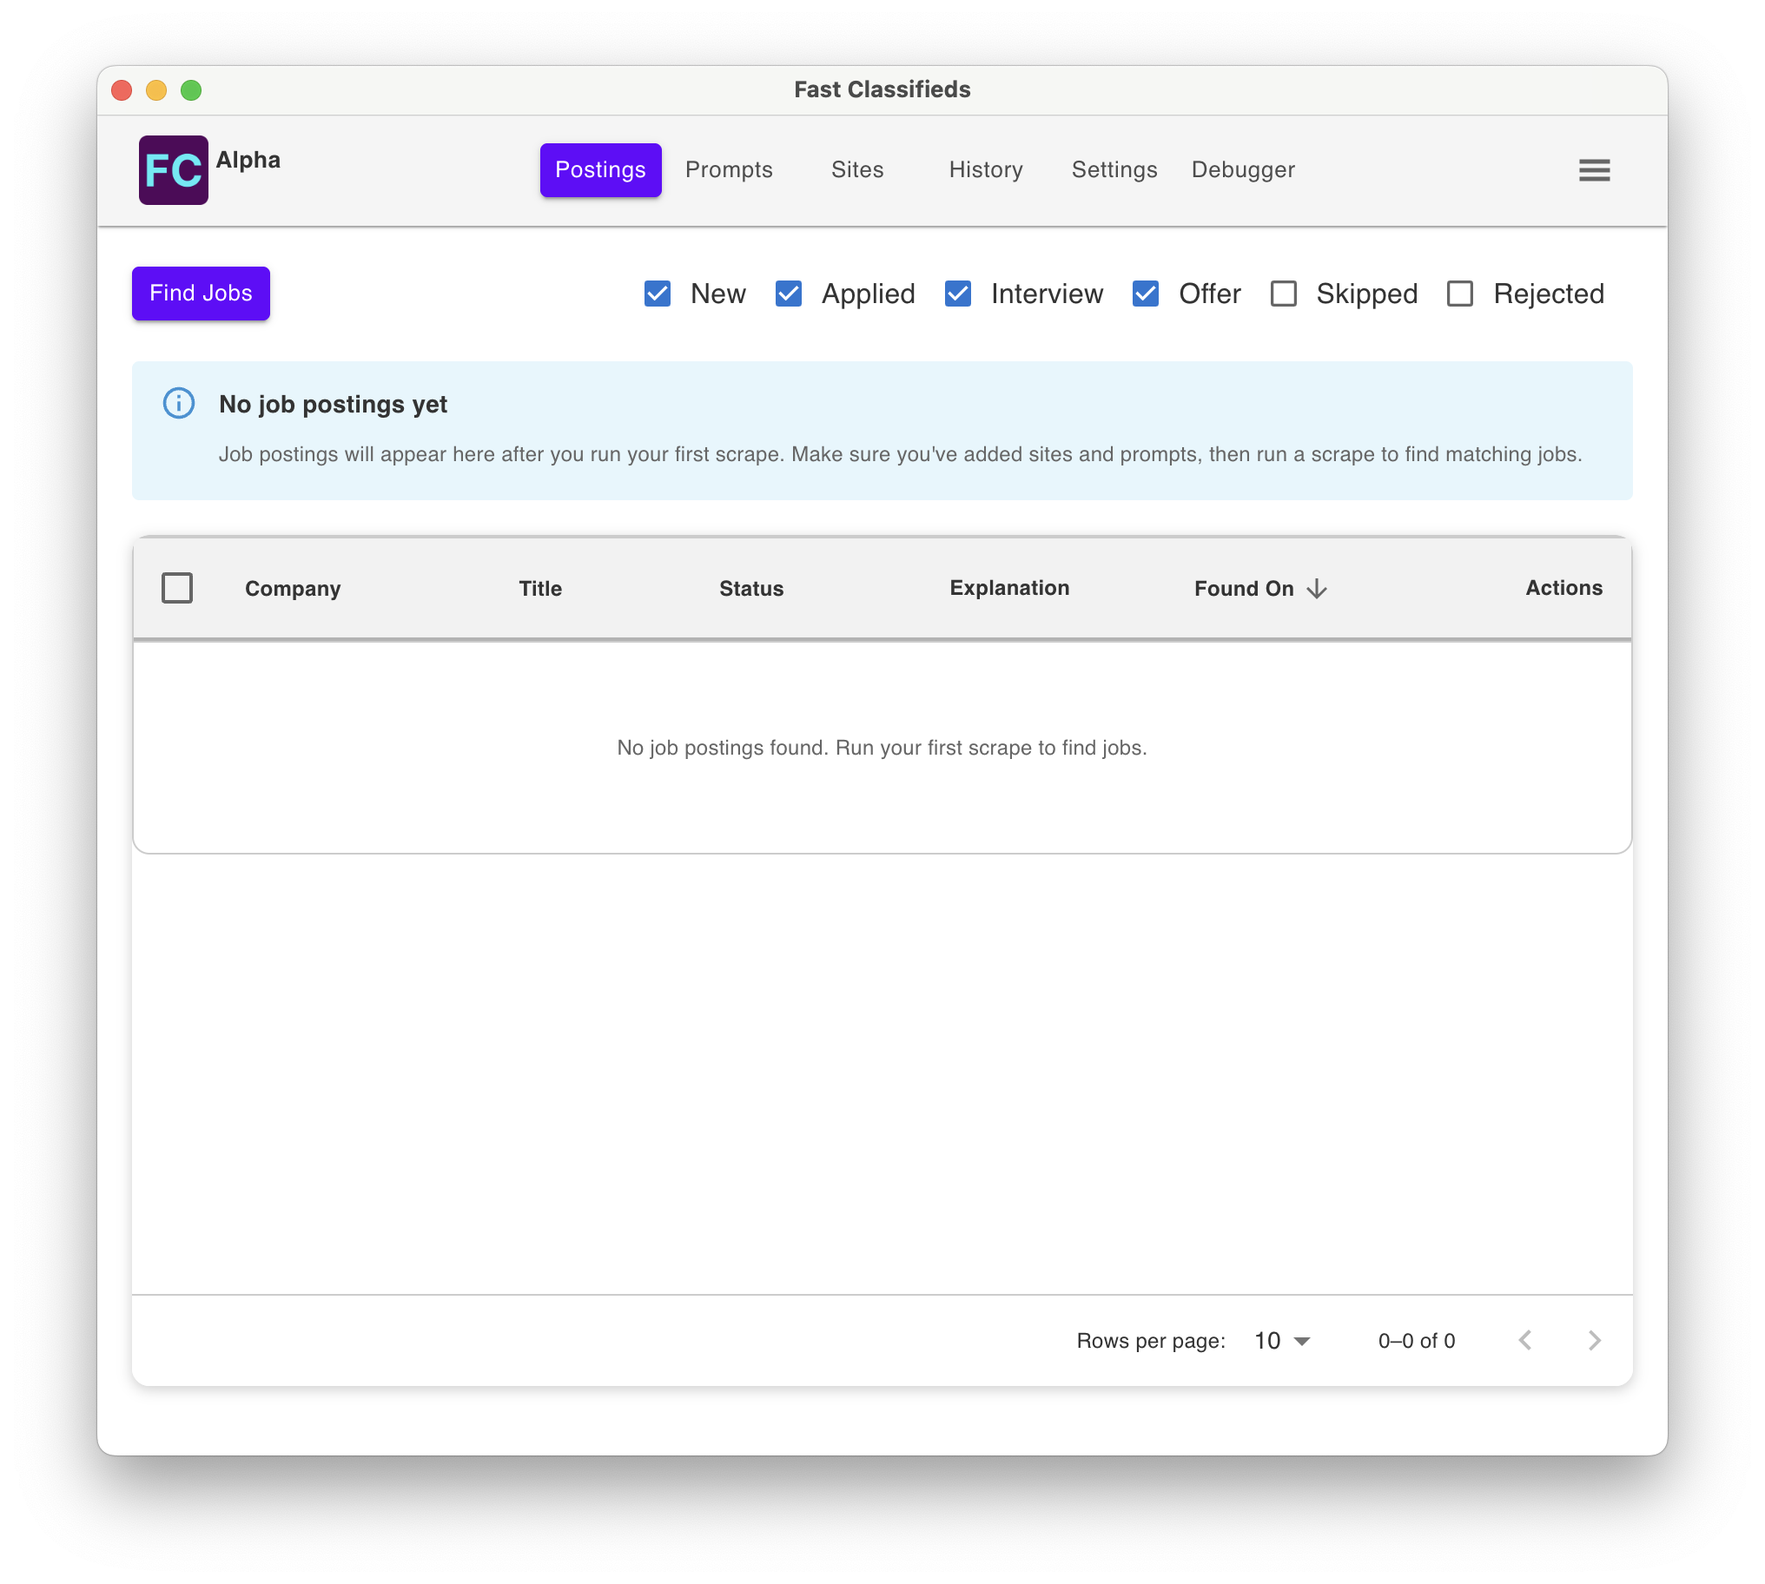
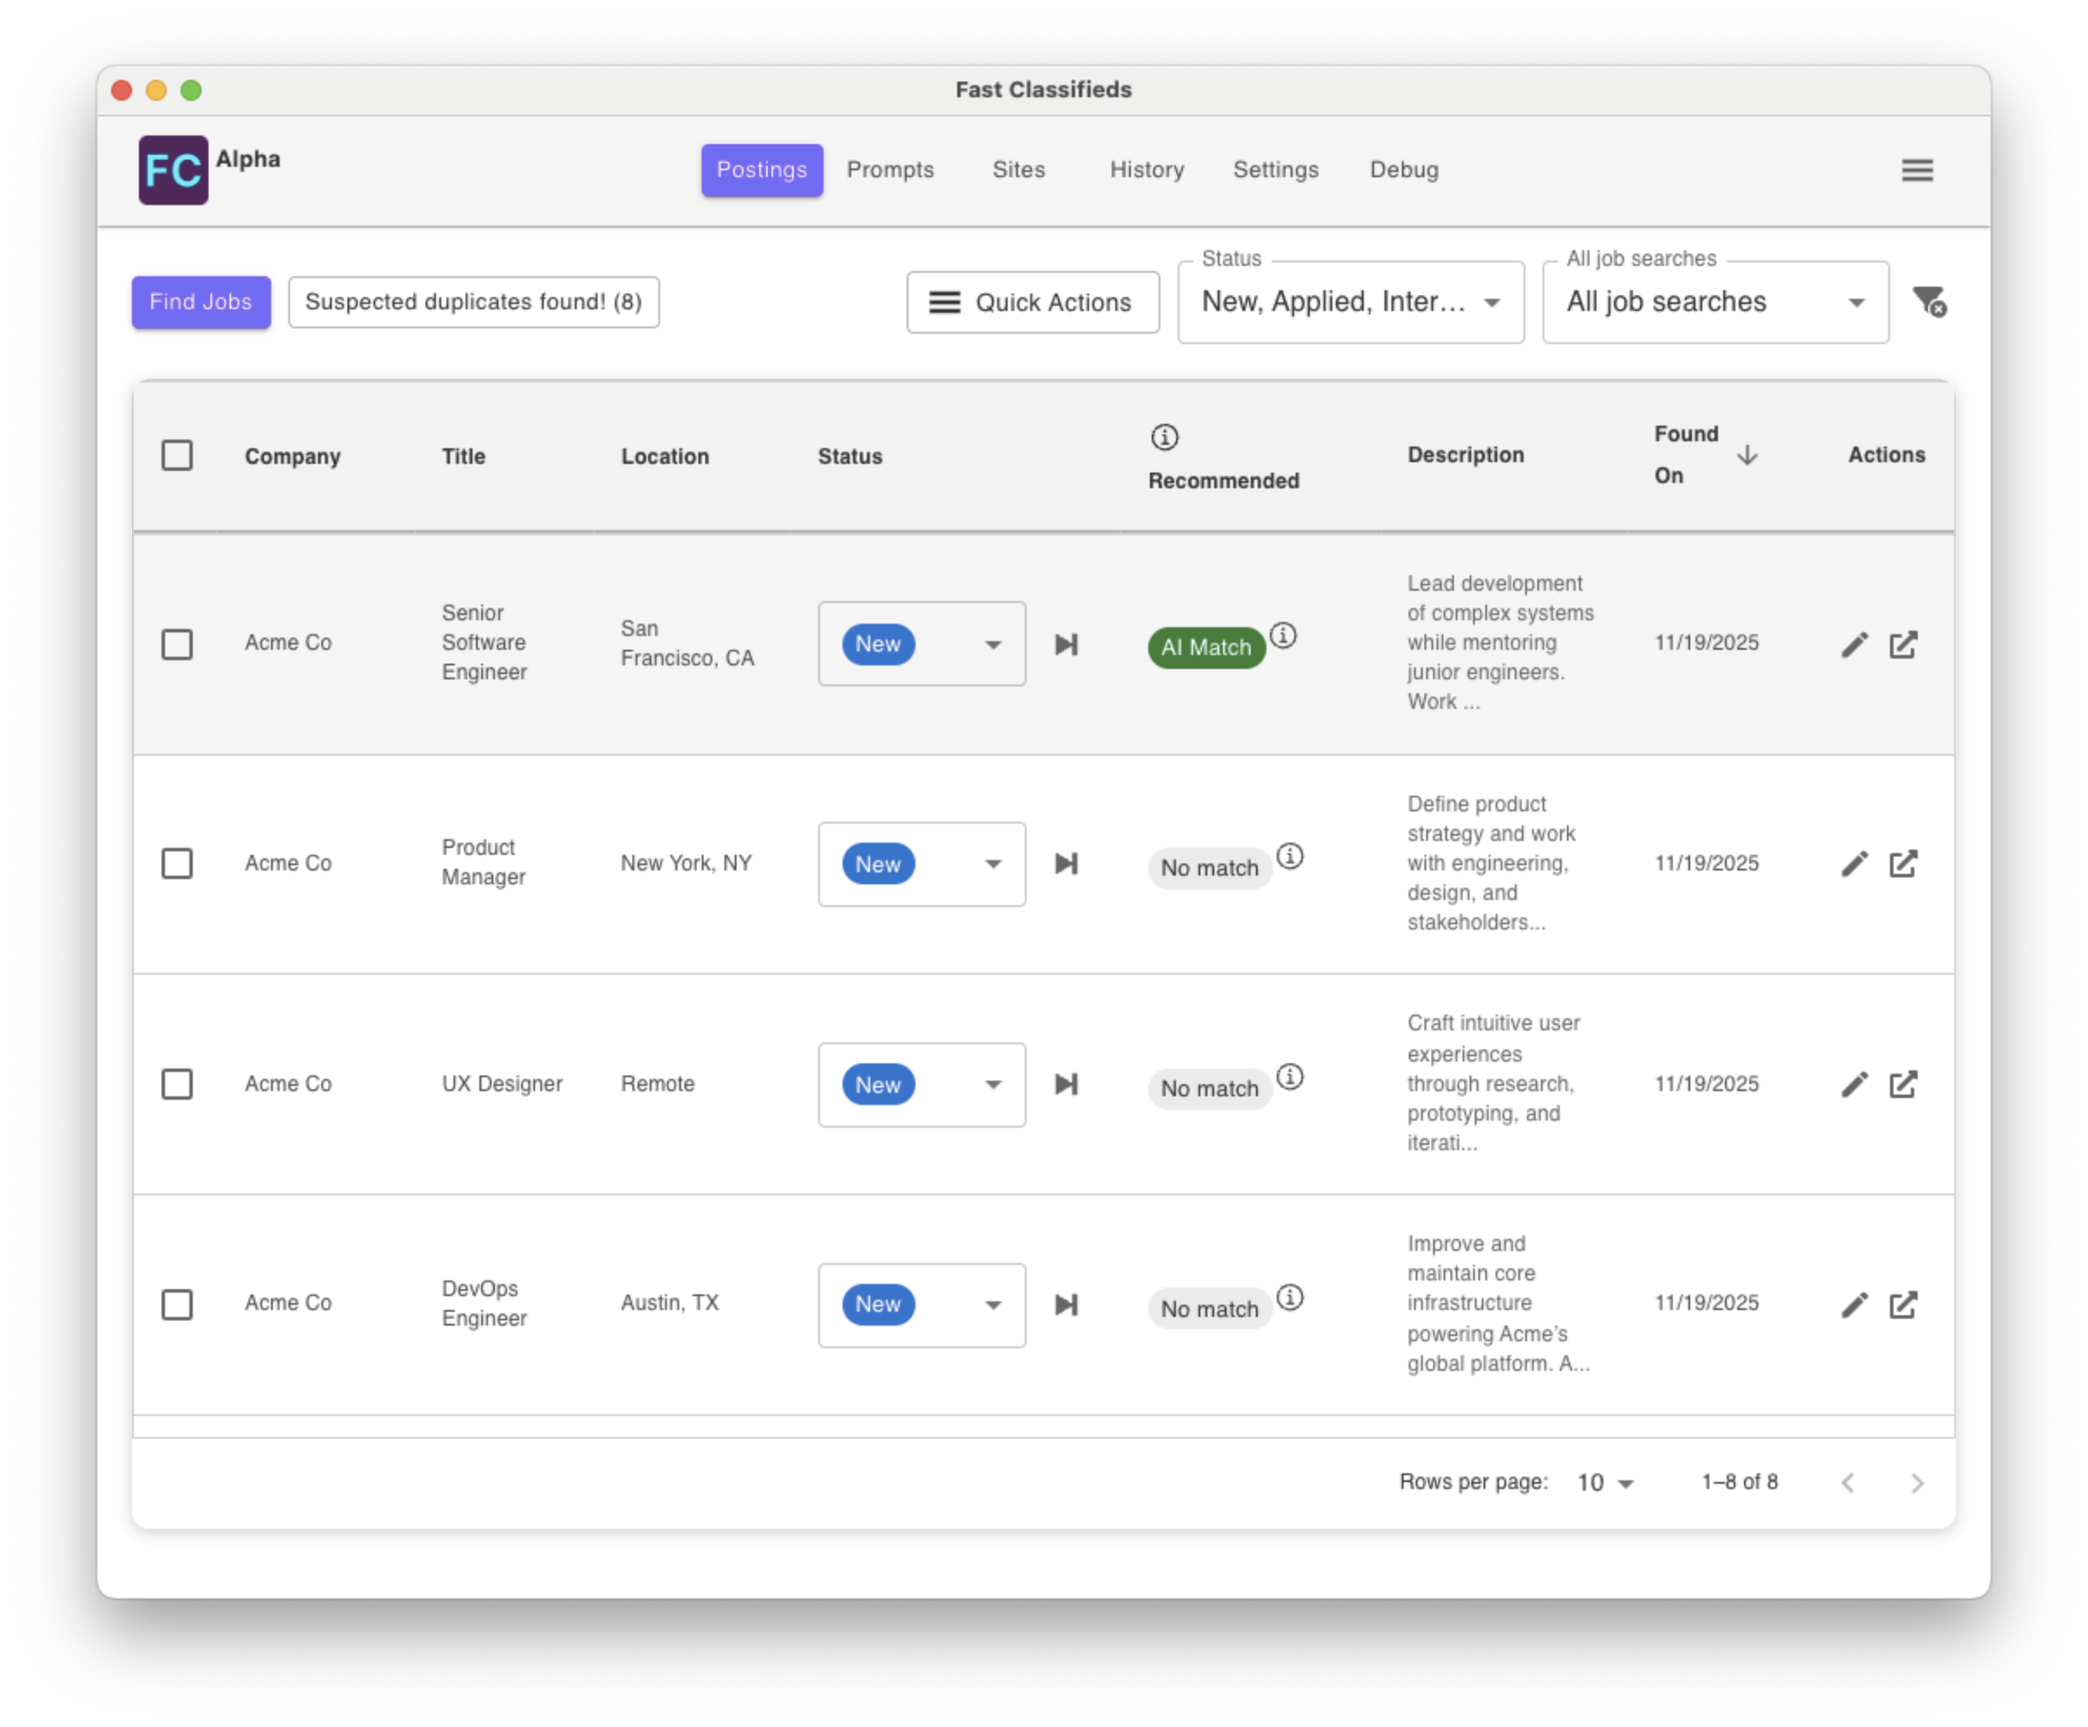
done

diff --git a/ui/app/marketing/classifieds/page.client.tsx b/ui/app/marketing/classifieds/page.client.tsx
@@ -66,7 +66,7 @@ const LandingPage = () => {
       >
         <MarketingLink
           target="_blank"
-          href="https://github.com/TravisBumgarner/fast-classifieds/releases/download/v1.1.0/Fast.Classifieds-1.1.0-arm64.dmg"
+          href="https://github.com/TravisBumgarner/fast-classifieds/releases/download/v1.4.0/Fast.Classifieds-1.4.0-arm64.dmg"
         >
           <FaApple style={{ marginRight: '0.5rem' }} />
           Download for macOS
@@ -160,6 +160,25 @@ const LandingPage = () => {
       <Section>
         <TextColumn>
           <p>
+            <strong>Find Duplicates</strong>
+          </p>
+          <p>
+            The app automatically detects duplicate job postings. If the same
+            job appears on multiple sites, it groups them together to keep your
+            list clean.
+          </p>
+        </TextColumn>
+        <ImageColumn>
+          <BlurHashImage
+            priority={false}
+            src="/marketing-resources/classifieds/duplicates.png"
+          />
+        </ImageColumn>
+      </Section>
+
+      <Section>
+        <TextColumn>
+          <p>
             <strong>Review Scrape History</strong>
           </p>
           <p>
@@ -211,7 +230,7 @@ const LandingPage = () => {
       >
         <MarketingLink
           target="_blank"
-          href="https://github.com/TravisBumgarner/fast-classifieds/releases/download/v1.1.0/Fast.Classifieds-1.1.0-arm64.dmg"
+          href="https://github.com/TravisBumgarner/fast-classifieds/releases/download/v1.4.0/Fast.Classifieds-1.4.0-arm64.dmg"
         >
           <FaApple style={{ marginRight: '0.5rem' }} />
           Download for macOS
